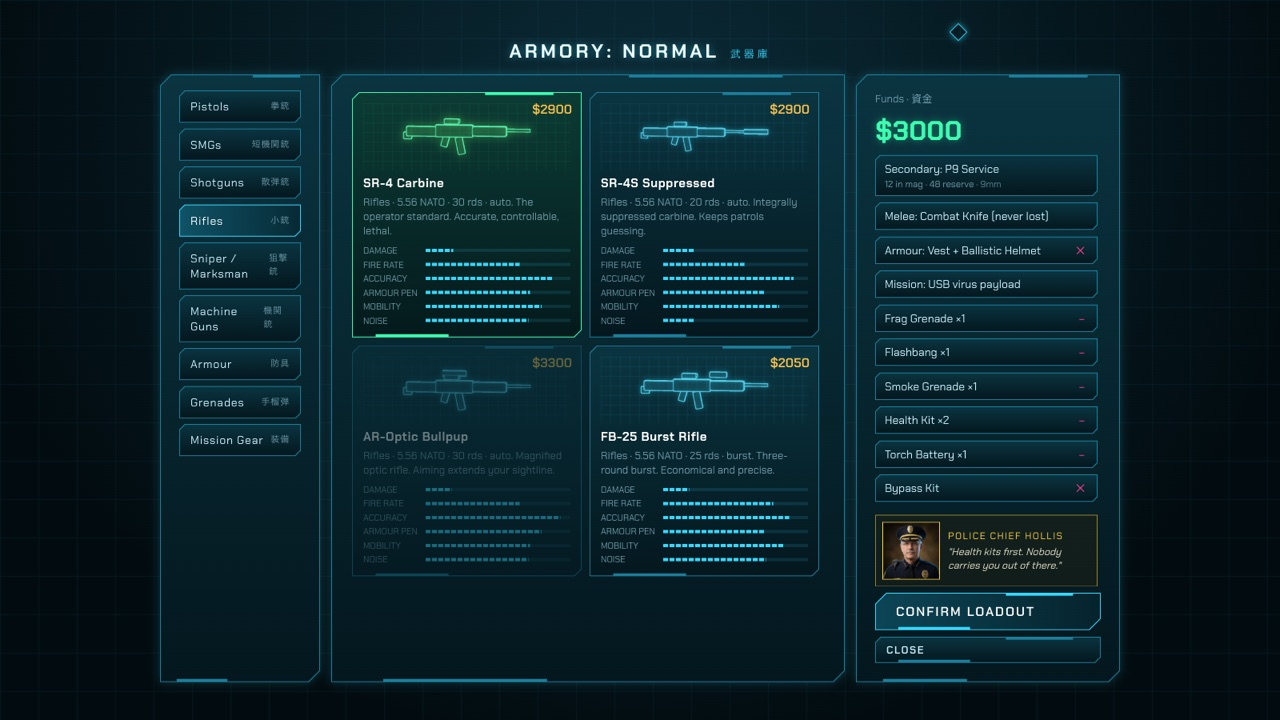
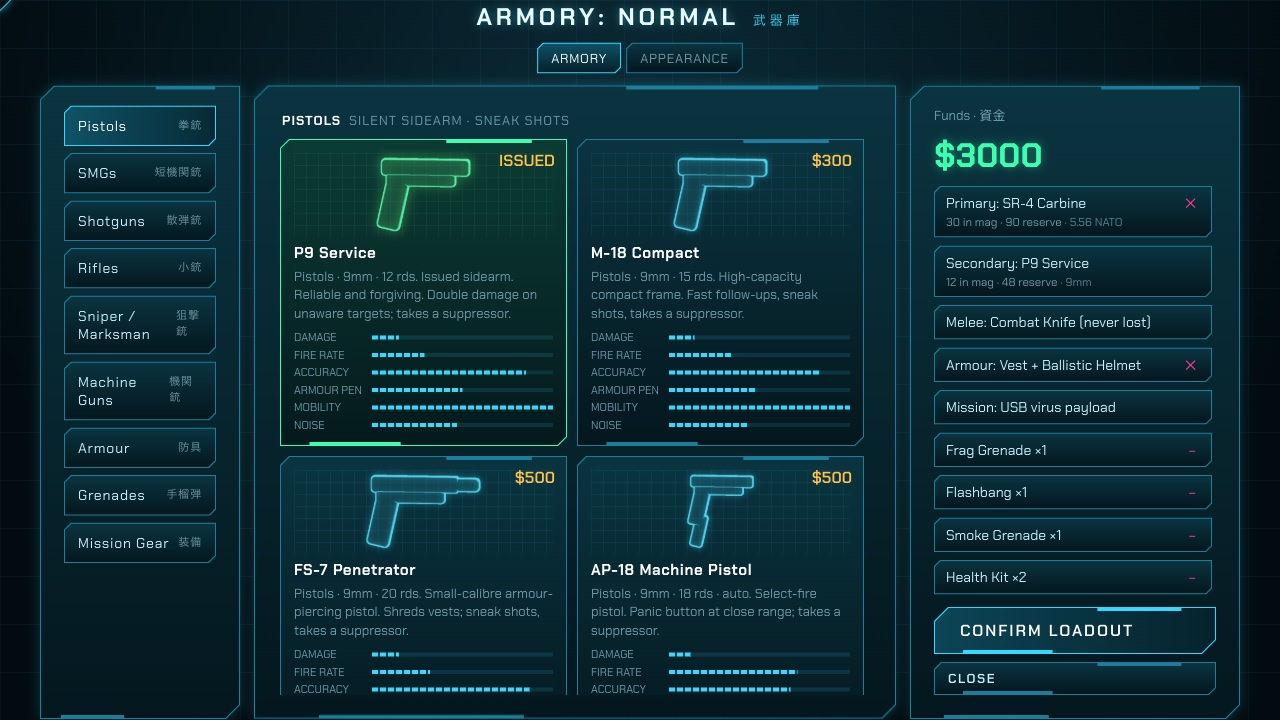
Tower Breach 1.9.2 (beta): walk up stairs in co-op, balaclava, new screenshots

Changed region(s): [[0.0312, 0.0, 0.9688, 1.0], [0.7188, 0.0306, 0.7812, 0.0611], [0.125, 0.9167, 0.1875, 0.9472]]

diff --git a/src/config/look.ts b/src/config/look.ts
@@ -6,8 +6,8 @@ export const CAMOS = ['solid', 'woodland', 'desert', 'urban', 'tiger'] as const;
 export type Camo = (typeof CAMOS)[number];
 export const CAMO_NAME: Record<Camo, string> = { solid: 'Solid', woodland: 'Woodland', desert: 'Desert digital', urban: 'Urban', tiger: 'Tiger stripe' };
 
-/** skin: index into SKIN_TONES; h (degrees), s, l: the uniform's base colour; contrast: camo strength 0..1 */
-export interface PlayerLook { skin: number; h: number; s: number; l: number; camo: Camo; contrast: number }
+/** skin: index into SKIN_TONES; h (degrees), s, l: the uniform's base colour; contrast: camo strength 0..1; balaclava: knit face cover (eyes only) */
+export interface PlayerLook { skin: number; h: number; s: number; l: number; camo: Camo; contrast: number; balaclava: boolean }
 
 /** Light to deep. */
 export const SKIN_TONES = [0xe6c1a2, 0xe4b897, 0xd09d78, 0xb88c6a, 0x9a6a4a, 0x7c5034, 0x5c3a24, 0x3e2618];
@@ -17,7 +17,7 @@ export const LOOK_RANGE = { h: [0, 359], s: [0, 0.8], l: [0.12, 0.6], contrast: 
 export const UNIFORM_PRESETS: [number, number, number][] = [
   [75, 0.14, 0.28], [90, 0.16, 0.24], [33, 0.3, 0.4], [45, 0.32, 0.5], [38, 0.24, 0.44], [220, 0.35, 0.2], [210, 0.07, 0.38], [220, 0.06, 0.13], [355, 0.38, 0.24], [200, 0.16, 0.32],
 ];
-export const DEFAULT_LOOK: PlayerLook = { skin: 3, h: 75, s: 0.14, l: 0.28, camo: 'woodland', contrast: 0.55 };
+export const DEFAULT_LOOK: PlayerLook = { skin: 3, h: 75, s: 0.14, l: 0.28, camo: 'woodland', contrast: 0.55, balaclava: false };
 
 const clamp = (v: number, [lo, hi]: readonly [number, number]) => Math.max(lo, Math.min(hi, v));
 const num = (v: unknown) => (typeof v === 'number' && Number.isFinite(v) ? v : null);
@@ -32,15 +32,16 @@ export function sanitizeLook(x: unknown): PlayerLook {
     h: Math.round(clamp(num(o.h) ?? d.h, LOOK_RANGE.h)), s: r2(clamp(num(o.s) ?? d.s, LOOK_RANGE.s)), l: r2(clamp(num(o.l) ?? d.l, LOOK_RANGE.l)),
     camo: (CAMOS as readonly unknown[]).includes(o.camo) ? (o.camo as Camo) : d.camo,
     contrast: r2(clamp(num(o.contrast) ?? d.contrast, LOOK_RANGE.contrast)),
+    balaclava: o.balaclava === true,
   };
 }
 
 export function randomLook(rnd = Math.random): PlayerLook {
   const [h, s, l] = UNIFORM_PRESETS[Math.floor(rnd() * UNIFORM_PRESETS.length)];
-  return sanitizeLook({ skin: Math.floor(rnd() * SKIN_TONES.length), h: (h + (rnd() - 0.5) * 30 + 360) % 360, s: s * (0.8 + rnd() * 0.4), l: l * (0.85 + rnd() * 0.3), camo: CAMOS[Math.floor(rnd() * CAMOS.length)], contrast: 0.3 + rnd() * 0.6 });
+  return sanitizeLook({ skin: Math.floor(rnd() * SKIN_TONES.length), h: (h + (rnd() - 0.5) * 30 + 360) % 360, s: s * (0.8 + rnd() * 0.4), l: l * (0.85 + rnd() * 0.3), camo: CAMOS[Math.floor(rnd() * CAMOS.length)], contrast: 0.3 + rnd() * 0.6, balaclava: rnd() < 0.3 });
 }
 
-/** Compact snapshot form [skin, h, s, l, camo index, contrast] (sent for every player, so kept small). */
-export const lookToWire = (l: PlayerLook) => [l.skin, l.h, l.s, l.l, CAMOS.indexOf(l.camo), l.contrast];
+/** Compact snapshot form [skin, h, s, l, camo index, contrast, balaclava 0/1] (sent for every player, so kept small). */
+export const lookToWire = (l: PlayerLook) => [l.skin, l.h, l.s, l.l, CAMOS.indexOf(l.camo), l.contrast, l.balaclava ? 1 : 0];
 export const lookFromWire = (a: unknown): PlayerLook | undefined =>
-  Array.isArray(a) ? sanitizeLook({ skin: a[0], h: a[1], s: a[2], l: a[3], camo: CAMOS[a[4]], contrast: a[5] }) : undefined;
+  Array.isArray(a) ? sanitizeLook({ skin: a[0], h: a[1], s: a[2], l: a[3], camo: CAMOS[a[4]], contrast: a[5], balaclava: a[6] === 1 }) : undefined;

diff --git a/tests/look.test.ts b/tests/look.test.ts
@@ -7,20 +7,23 @@ import { setHolidayOverride, HOLIDAYS } from '../src/config/holiday';
 import { Sim } from '../src/sim/sim';
 import { emptyLoadout } from '../src/sim/loadout';
 
-const A: PlayerLook = { skin: 7, h: 33, s: 0.3, l: 0.42, camo: 'desert', contrast: 0.8 };
-const B: PlayerLook = { skin: 0, h: 210, s: 0.07, l: 0.38, camo: 'urban', contrast: 0.4 };
+const A: PlayerLook = { skin: 7, h: 33, s: 0.3, l: 0.42, camo: 'desert', contrast: 0.8, balaclava: false };
+const B: PlayerLook = { skin: 0, h: 210, s: 0.07, l: 0.38, camo: 'urban', contrast: 0.4, balaclava: false };
 
 test('looks are sanitised: garbage -> default, numbers clamped, unknown camo / skin rejected', () => {
   for (const g of [null, undefined, 42, 'x', [], { skin: 'a' }]) expect(sanitizeLook(g).camo).toBe(DEFAULT_LOOK.camo);
   expect(sanitizeLook(null)).toEqual(DEFAULT_LOOK);
   const c = sanitizeLook({ skin: 99, h: 999, s: -3, l: 5, camo: 'clown', contrast: 1e9 });
-  expect(c).toEqual({ skin: DEFAULT_LOOK.skin, h: 359, s: 0, l: 0.6, camo: DEFAULT_LOOK.camo, contrast: 1 });
+  expect(c).toEqual({ skin: DEFAULT_LOOK.skin, h: 359, s: 0, l: 0.6, camo: DEFAULT_LOOK.camo, contrast: 1, balaclava: false });
   expect(sanitizeLook({ ...A, h: NaN, skin: -1, contrast: Infinity })).toMatchObject({ h: DEFAULT_LOOK.h, skin: DEFAULT_LOOK.skin, contrast: DEFAULT_LOOK.contrast });
   expect(sanitizeLook({ ...A, skin: 2.7 }).skin).toBe(2);
   expect(sanitizeLook(A)).toEqual(A);
   for (let i = 0; i < 50; i++) { const r = randomLook(); expect(sanitizeLook(r)).toEqual(r); }
   expect(lookFromWire(lookToWire(A))).toEqual(A);
   expect(lookFromWire(undefined)).toBeUndefined();
+  // balaclava: only a real true counts (junk -> off), and it survives the network form both ways
+  expect(sanitizeLook({ ...A, balaclava: 'yes' }).balaclava).toBe(false);
+  for (const b of [true, false]) expect(lookFromWire(lookToWire({ ...A, balaclava: b }))!.balaclava).toBe(b);
   expect(lookFromWire(['x', 1e6, 9, 9, 99, -1])).toMatchObject({ camo: DEFAULT_LOOK.camo, h: 359, contrast: 0 });
 });
 

diff --git a/tests/net.test.ts b/tests/net.test.ts
@@ -227,9 +227,9 @@ describe('multiplayer (host-authoritative over relay)', () => {
     const { host, clients, code } = await squad(2);
     host.goShop();
     await until(() => clients.every((c) => c.lobby?.stage === 'shop'));
-    const hostLook = { skin: 7, h: 33, s: 0.3, l: 0.42, camo: 'tiger' as const, contrast: 0.8 };
+    const hostLook = { skin: 7, h: 33, s: 0.3, l: 0.42, camo: 'tiger' as const, contrast: 0.8, balaclava: true };
     host.setHostLoadout(emptyLoadout(), hostLook);
-    clients[0].ready(emptyLoadout(), { skin: 2, h: 210, s: 0.07, l: 0.38, camo: 'urban', contrast: 0.4 });
+    clients[0].ready(emptyLoadout(), { skin: 2, h: 210, s: 0.07, l: 0.38, camo: 'urban', contrast: 0.4, balaclava: false });
     clients[1].ready(emptyLoadout(), { skin: 99, h: 9999, s: 'x', camo: 'clown', contrast: -5 } as any); // a hacked client
     await until(() => clients.every((c) => !!c.view));
     const sim = host.sim!;
@@ -239,7 +239,7 @@ describe('multiplayer (host-authoritative over relay)', () => {
     const late = new ClientSession();
     await late.join(URL, code, 'Late');
     await until(() => late.lobby?.late === true);
-    late.ready(emptyLoadout(), { skin: 0, h: 120, s: 0.5, l: 0.3, camo: 'desert', contrast: 1 });
+    late.ready(emptyLoadout(), { skin: 0, h: 120, s: 0.5, l: 0.3, camo: 'desert', contrast: 1, balaclava: false });
     await until(() => !!late.view && sim.players.length === 4);
     const all = [...clients, late];
     await pump(host, all, 0.3);

diff --git a/tests/stairs.test.ts b/tests/stairs.test.ts
@@ -46,6 +46,24 @@ describe('stairwells you can walk', () => {
       break;
     }
   });
+  it('co-op: a player whose client moves them (server only receives positions) also climbs by walking up', () => {
+    // on a dedicated server or browser host, a client's position arrives before the sim tick (applyInput), so the
+    // sim never sees this tick's movement itself: walking up the flight must still take the player up
+    const { s, p } = sim();
+    s.external.add(p.id);
+    const f = [...Array(40).keys()].map((k) => k + 2).find((ff) => s.flightCondition(ff, 0) === 'clear')!;
+    s.travel(p, f, 'stair0', 't'); (p as any).stairCd = 0;
+    for (const e of s.floorState(f).enemies) e.state = 'dead';
+    const st = s.floorState(f).L.stairs[0];
+    p.x = st.x0 + 1; p.y = st.y1 + 0.7;
+    for (let t = 0; t < 6 && p.floor === f; t += 1 / 60) {
+      p.y -= 3.3 / 60; // the client's own movement, applied by the authority before the tick
+      p.input.my = -1; p.input.ax = p.x; p.input.ay = p.y - 5;
+      s.tick(1 / 60);
+    }
+    expect(p.floor).toBe(f + 1);
+  });
+
   it('the top of a flight is only reachable by walking the steps (no sidestep onto the top from the landing)', () => {
     // I89: the flat aisle beside the flights let you walk to the far end at ground level and sidestep onto the top
     // step, popping 2.6 m up and straight into the next floor. Drive the player up the aisle, sidestep, push on:

diff --git a/src/sim/interact.ts b/src/sim/interact.ts
@@ -204,16 +204,14 @@ function gather(sim: Sim, p: PlayerState, fs: FloorState): Target[] {
           });
         } else if (!stairPassable(cond)) {
           out.push({ key: 's' + s.index, label: '', hold: 0, x: s.upX, y: s.upY, act: () => {}, blocked: `Stairs up: ${STAIR_LABEL[cond]}. Find another route.` });
-        } else {
-          out.push({ key: 's' + s.index, label: `Climb to floor ${to} (or walk up the stairs)${cond !== 'clear' ? ` — ${STAIR_LABEL[cond]}` : ''}`, hold: 0, x: s.upX, y: s.upY, act: () => sim.takeStairs(p, s.index, 1) });
-        }
+        } // a passable flight has no prompt: walk up the steps (only debris needs the interact key)
       }
     }
     if (near(s.downX, s.downY, 2.1)) {
       const cond = sim.flightCondition(p.floor - 1, s.index);
       if (p.floor <= 1) out.push({ key: 'sd' + s.index, label: '', hold: 0, x: s.downX, y: s.downY, act: () => {}, blocked: 'Stairs down: flooded service levels. Use the lobby entrance.' });
       else if (!stairPassable(cond)) out.push({ key: 'sd' + s.index, label: '', hold: 0, x: s.downX, y: s.downY, act: () => {}, blocked: `Stairs down: ${STAIR_LABEL[cond]}.` });
-      else out.push({ key: 'sd' + s.index, label: `Descend to floor ${p.floor - 1}`, hold: 0, x: s.downX, y: s.downY, act: () => sim.takeStairs(p, s.index, -1) });
+      // a passable flight down has no prompt either: walk down the steps
     }
   }
   // elevators

diff --git a/src/sim/player.ts b/src/sim/player.ts
@@ -143,11 +143,15 @@ export function updatePlayer(sim: Sim, p: PlayerState, dt: number, externalMove:
     const rad = (p.crouch ? 1.1 : p.sprinting ? 9.5 : 3.6) * sm;
     sim.noise(fs, p.x, p.y, rad, p);
   }
-  // walking up (or down) a stairwell flight takes you to the next floor when you step onto its top landing
+  // walking up (or down) a stairwell flight takes you to the next floor when you step onto its top landing.
+  // Compare with last tick's position, not this tick's: in co-op the client's movement is applied before the tick
+  // (applyInput), so `py` already equals p.y for externally moved players and the climb never fired
   (p as any).stairCd = Math.max(0, ((p as any).stairCd ?? 0) - dt);
+  const prevY = (p as any).stairPrevY ?? py;
+  (p as any).stairPrevY = p.y;
   if ((p as any).stairCd <= 0 && p.z <= 0.05 && p.floor >= 1) {
     const st = stairAt(L, p.x, p.y);
-    if (st && st.t >= 1 && p.y - py < -0.005) {
+    if (st && st.t >= 1 && p.y - prevY < -0.005) {
       if ((st.dir > 0 && p.floor < 200) || (st.dir < 0 && p.floor > 1)) { sim.takeStairs(p, st.s.index, st.dir); syncLast(p); return; }
     }
   }

diff --git a/src/render/operator.ts b/src/render/operator.ts
@@ -688,6 +688,15 @@ export class OperatorRig {
         spike(hb, KIT.web, V(sx * 0.096, 0.02, 0.012), V(-sx * 0.066, -0.065, 0.058), 0.1, 0.006, 0.006, 6); // chin strap
       }
       hb.rbox(0.05, 0.016, 0.03, 0.007, 0, -0.045, 0.072, KIT.web); // chin cup
+      if (lk.balaclava) {
+        // black knit balaclava over head and neck: only an eye band of skin shows (the helmet sits on top)
+        const KNIT = 0x16181b;
+        hb.limb(0.062, 0.2, 0, 0.02, 0, KNIT) // neck
+          .geo(new THREE.SphereGeometry(0.112, 16, 12), KNIT, 0, 0.06, 0.012, 0, 0, 0, 'solid', 0.92, 1.06, 1.02) // head
+          .geo(new THREE.SphereGeometry(0.074, 12, 9), KNIT, 0, 0.018, 0.04, 0, 0, 0, 'solid', 1.07, 0.8, 1.02) // jaw
+          .rbox(0.104, 0.04, 0.02, 0.014, 0, 0.074, 0.112, skin); // eye opening, just proud of the knit
+        for (const sx of [-1, 1]) hb.geo(new THREE.SphereGeometry(0.013, 8, 6), 0x1a1410, sx * 0.032, 0.074, 0.123); // eyes
+      }
       hb.geo(new THREE.BoxGeometry(0.07, 0.012, 0.012), 0x60d8ff, 0, 0.142, 0.184, 0.5, 0, 0, 'emit'); // NVG lens glint
     }
     this.head.add(meshes(hb, M.gear));

diff --git a/src/ui/shop.ts b/src/ui/shop.ts
@@ -124,6 +124,8 @@ export class Shop {
         h('div', { class: 'hint' }, 'Camo pattern'),
         h('div', { class: 'seg lk-camo' }, ...CAMOS.map((c) => h('button', { class: c === L.camo ? 'on' : '', onclick: () => { this.sound('click'); this.setLook({ ...this.look, camo: c }); } }, CAMO_NAME[c]))),
         slider('Camo contrast', 'contrast', 0.1, pct),
+        h('div', { class: 'hint' }, 'Face'),
+        h('div', { class: 'seg lk-face' }, ...([[false, 'Open face'], [true, 'Balaclava']] as const).map(([on, n]) => h('button', { class: on === L.balaclava ? 'on' : '', onclick: () => { this.sound('click'); this.setLook({ ...this.look, balaclava: on }); } }, n))),
         h('div', { class: 'row lk-btns' },
           h('button', { class: 'btn small', onclick: () => { this.sound('click'); this.setLook(randomLook()); } }, 'Randomise'),
           h('button', { class: 'btn small', onclick: () => { this.sound('back'); this.setLook({ ...DEFAULT_LOOK }); } }, 'Reset')),

diff --git a/src/sim/sim.ts b/src/sim/sim.ts
@@ -346,6 +346,7 @@ export class Sim {
 
   travel(p: PlayerState, to: number, tag: string, via: string) {
     const from = p.floor;
+    (p as any).stairPrevY = undefined; // a jump between floors is never a step up a flight
     const fs = this.floorState(to);
     const a = fs.L.anchors[tag] ?? fs.L.anchors.stair0 ?? fs.L.anchors.start;
     const pts = pointsNear(fs.L, a.x, a.y, 8);

diff --git a/README.md b/README.md
@@ -63,8 +63,8 @@ You get one life. Each run is a new tower. You can go in alone or with up to fou
   you find on the way up.
 - 🎯 **Weapon roles.** Every gun class has a job: pistols land double-damage sneak shots and take a Suppressor
   (as do SMGs), shotguns stagger and one-shot dogs, sniper rounds pierce two enemies, machine guns pin enemies down.
-- 🎨 **Your operator, your look.** Pick a skin tone, a uniform colour and a camo pattern (woodland, desert digital,
-  urban, tiger stripe) in the armory, with a live 3D preview. Your squad sees it too.
+- 🎨 **Your operator, your look.** Pick a skin tone, a uniform colour, a camo pattern (woodland, desert digital,
+  urban, tiger stripe) and an optional balaclava in the armory, with a live 3D preview. Your squad sees it too.
 - 👥 **Co-op for up to 5.** Cross-play between the desktop app and the browser, proximity voice chat, and revives
   with a Health Kit. Friendly fire is optional.
 - ✨ **Lighting and reflections.** Every lamp casts its own coloured light, mirrors show you and the enemy, and an
@@ -77,16 +77,20 @@ You get one life. Each run is a new tower. You can go in alone or with up to fou
 
 <table>
   <tr>
-    <td width="50%"><img src="docs/screenshots/street.jpg" alt="The street"><br><sub><b>The street.</b> Check in with the police chief and gear up before you go in.</sub></td>
+    <td width="50%"><img src="docs/screenshots/street.jpg" alt="The street"><br><sub><b>The street.</b> Check in with Police Chief Hollis and gear up, then breach the Axiom Tower entrance.</sub></td>
     <td width="50%"><img src="docs/screenshots/dark-floor.jpg" alt="Dark floor"><br><sub><b>Floor 160.</b> A cyborg in the torch beam. Darkness here is 39%.</sub></td>
   </tr>
   <tr>
     <td><img src="docs/screenshots/hacking.jpg" alt="Hacking"><br><sub><b>Uplink.</b> Beat three puzzles before the trace reaches 100%. Here: route power to the bulb on a lighting terminal.</sub></td>
-    <td><img src="docs/screenshots/armory.jpg" alt="Armory"><br><sub><b>The armory.</b> Your budget depends on the difficulty.</sub></td>
+    <td><img src="docs/screenshots/armory.jpg" alt="Armory"><br><sub><b>The armory.</b> Every weapon class has a role. Your budget depends on the difficulty.</sub></td>
   </tr>
   <tr>
-    <td><img src="docs/screenshots/stairwell.jpg" alt="Stairwell"><br><sub><b>Stairwells.</b> Walk up the stairs, or press E at the foot to climb.</sub></td>
+    <td><img src="docs/screenshots/stairwell.jpg" alt="Stairwell"><br><sub><b>Stairwells.</b> Walk up the steps to reach the next floor. Debris has to be cleared first.</sub></td>
     <td><img src="docs/screenshots/mainframe.jpg" alt="Mainframe"><br><sub><b>Floor 200.</b> Hold the mainframe for 60 seconds while SOVEREIGN shuts down.</sub></td>
+  </tr>
+  <tr>
+    <td><img src="docs/screenshots/appearance.jpg" alt="Appearance"><br><sub><b>Appearance.</b> Skin tone, uniform colour, camo and a balaclava, with a live preview. Your squad sees it too.</sub></td>
+    <td><img src="docs/screenshots/doors.jpg" alt="Doors"><br><sub><b>Doors.</b> Shut one to break line of sight. A red light means it's locked: find the floor's master key.</sub></td>
   </tr>
 </table>
 
@@ -131,7 +135,7 @@ relay (`npm start`, 5-letter codes). See the [co-op notes](docs/DEVELOPMENT.md#p
 | Jump / vault / clear tripwires | Space | A |
 | Reload | R | X |
 | Knife | V | Right stick click |
-| Interact, loot, revive, use stairs and lifts | E (tap or hold) | RB |
+| Interact, loot, revive, clear stair debris, use lifts | E (tap or hold) | RB |
 | Throw grenade / switch grenade | G / B | LB / D-pad → |
 | Torch | T | D-pad ↑ |
 | Select / use belt item | 1–5 or mouse wheel / F | D-pad ← / D-pad ↓ |

diff --git a/docs/MANUAL.md b/docs/MANUAL.md
@@ -118,6 +118,8 @@ You always carry a combat knife, and you can't lose it. Once you are in the towe
 
 ### Appearance
 
+<p align="center"><img src="screenshots/appearance.jpg" alt="The Appearance tab" width="80%"></p>
+
 The **Appearance** tab at the top of the armory changes how your operator looks. It is cosmetic only: it never
 changes how easily enemies see you.
 
@@ -125,6 +127,7 @@ changes how easily enemies see you.
 - **Uniform colour:** pick a preset, or tune it with the hue, saturation and brightness sliders.
 - **Camo pattern:** solid, woodland, desert digital, urban or tiger stripe. The pattern colours come from your uniform
   colour. **Camo contrast** sets how strong the pattern is.
+- **Face:** open face, or a black knit **balaclava** that shows only your eyes.
 - **Randomise** rolls a new look, and **Reset** goes back to the standard olive woodland.
 
 The preview on the right turns your operator slowly so you can see the result. Your gear (plate carrier, pouches,
@@ -168,7 +171,7 @@ Every keyboard binding can be changed under **Settings → Controls**. These are
 | Jump, vault low cover, clear tripwires | Space | A |
 | Reload | R | X |
 | Knife | V | Right stick click |
-| Interact, loot, revive, stairs and lifts | E (tap or hold) | RB |
+| Interact, loot, revive, clear stair debris, lifts | E (tap or hold) | RB |
 | Swap weapon | Q | Y |
 | Primary, secondary, knife | F1, F2, F3 | — |
 | Throw grenade | G | LB |
@@ -333,6 +336,8 @@ Select an item with 1–5 or the mouse wheel, then press **F** to use it.
 
 ### Doors and master keys
 
+<p align="center"><img src="screenshots/doors.jpg" alt="Doors on an office floor" width="80%"></p>
+
 From floor 1 to floor 199, the doorways between rooms have doors. Stairwell and lift doors are always open, and so are
 the doors to the street.
 
@@ -437,8 +442,8 @@ Darkness helps you hide. It also makes traps harder to spot, so you depend more 
 
 <p align="center"><img src="screenshots/stairwell.jpg" alt="A stairwell" width="80%"></p>
 
-Each floor has three **stairwells** (A, B and C). To climb, walk up the flight or press **E** at the foot. You can also
-go back down. The minimap colours each flight up by its condition:
+Each floor has three **stairwells** (A, B and C). To climb, walk up the flight: reaching the top takes you to the next
+floor. Walk down the other flight to go back down. The only stair action on **E** is clearing debris. The minimap colours each flight up by its condition:
 
 | Condition | What happens |
 |---|---|
